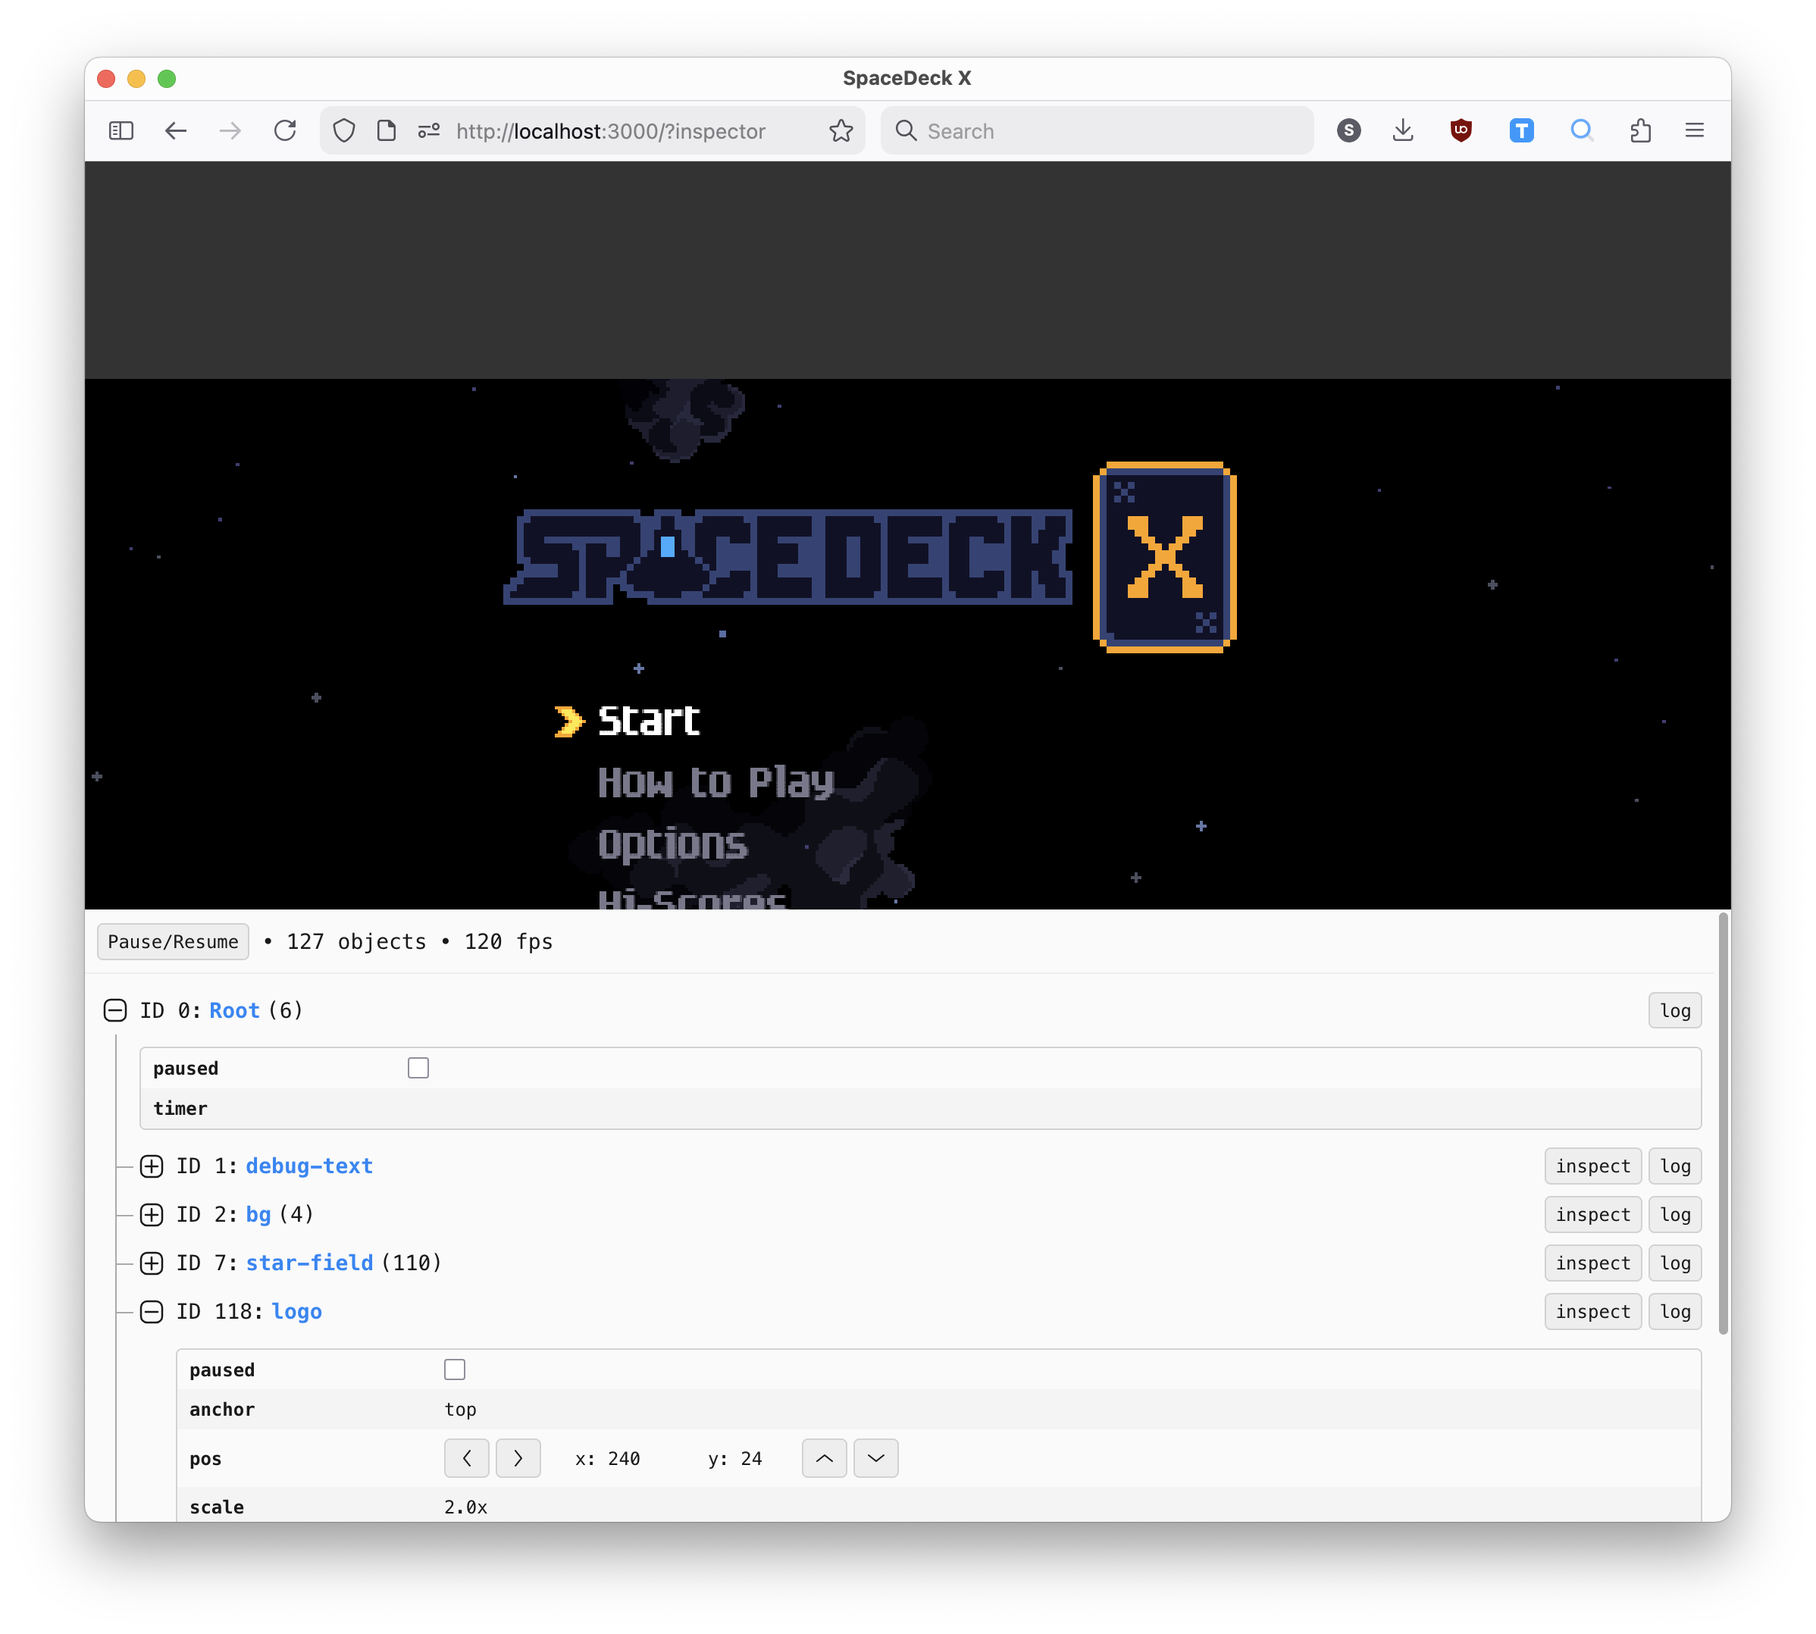
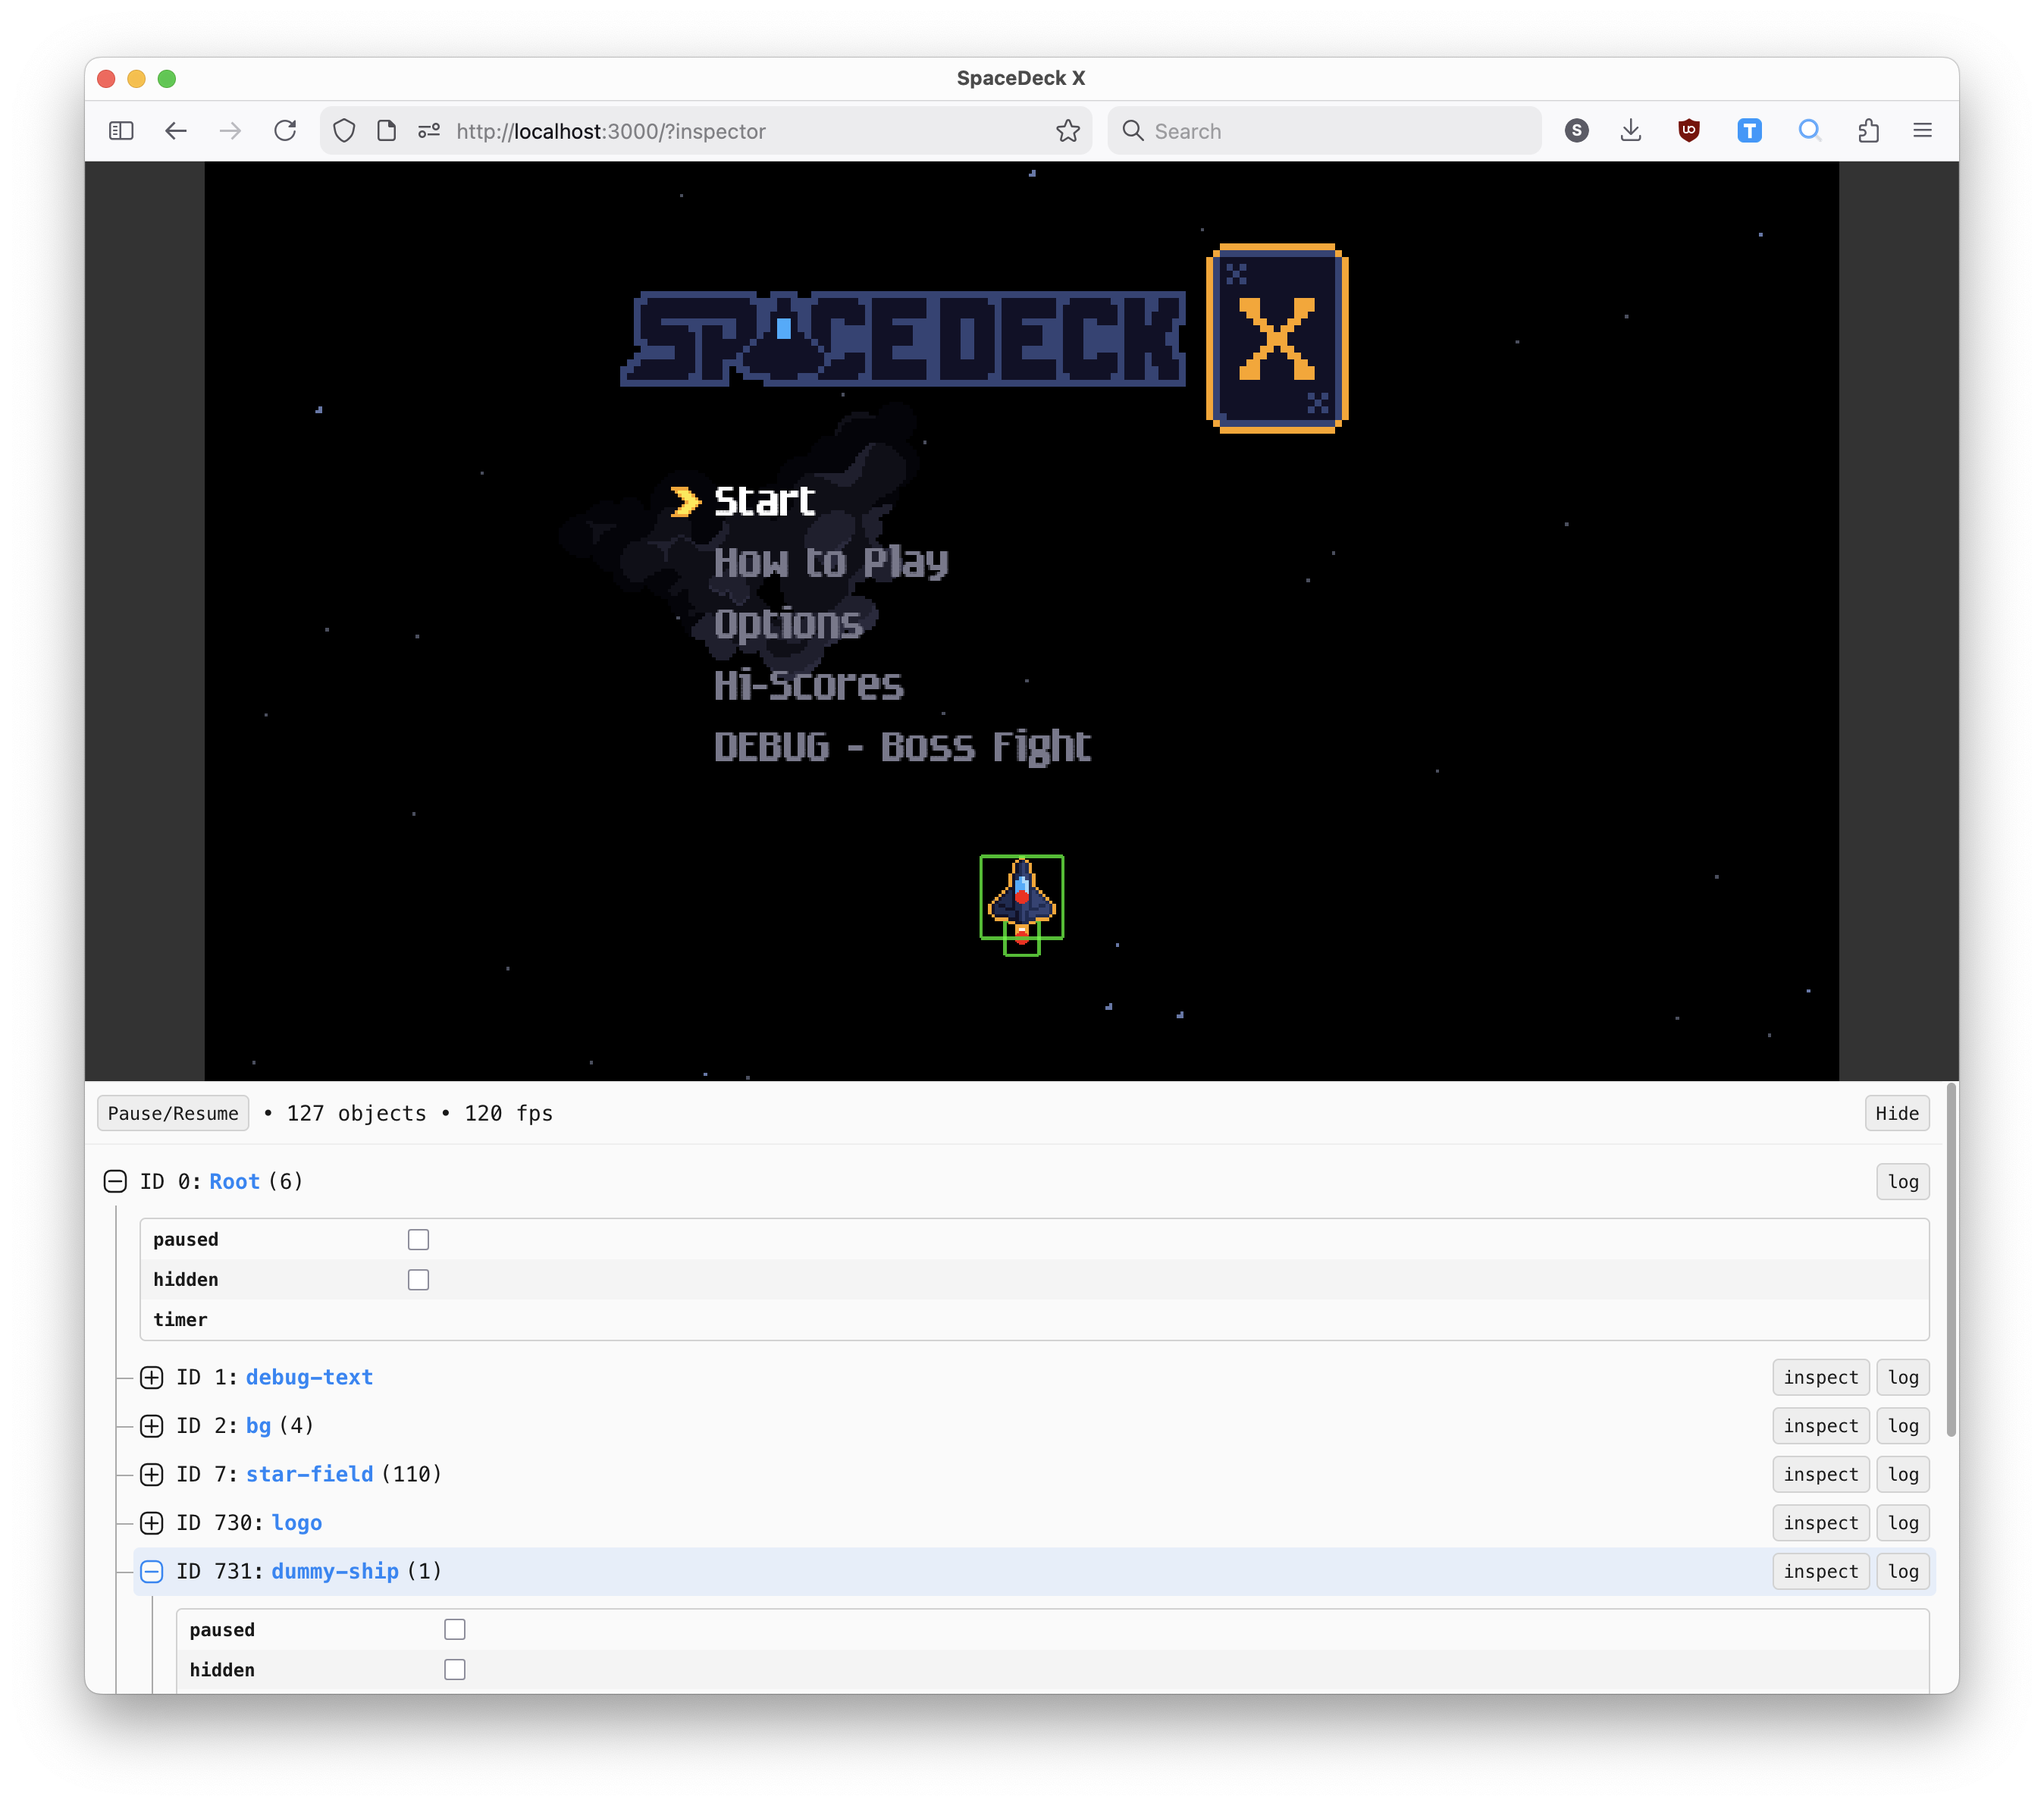
Recursive bounding box draw

Changed region(s): [[0.0309, 0.0311, 0.9574, 0.9634], [0.1853, 0.6837, 0.2162, 0.7147]]

diff --git a/src/components/game-object.tsx b/src/components/game-object.tsx
@@ -1,5 +1,5 @@
-import type { GameObj, KAPLAYCtx, KAPLAYCtxT, KEventController } from "kaplay";
-import { useEffect, useRef, useState } from "preact/hooks";
+import type { GameObj, KAPLAYCtx, KEventController } from "kaplay";
+import { useCallback, useEffect, useRef, useState } from "preact/hooks";
 import { MinusIcon, PlusIcon } from "../components/icons";
 import { cx } from "../lib/cx";
 import { drawBoundingBox } from "../lib/draw-bbox";
@@ -12,7 +12,7 @@ export interface GameObjectProps {
   setRenderRoot: (obj: GameObj) => void;
   isExpanded?: boolean;
   isRenderRoot?: boolean;
-  k: KAPLAYCtx | KAPLAYCtxT;
+  k: KAPLAYCtx;
 }
 
 export const GameObject = ({
@@ -24,7 +24,7 @@ export const GameObject = ({
   k,
 }: GameObjectProps) => {
   const [isExpanded, setIsExpanded] = useState(isExpandedExternal);
-  const mouseHoverController = useRef<KEventController>(null);
+  const updateControllers = useRef<KEventController[]>([]);
 
   const { compsData, tags, compsLabel } = getObjectInfo(obj);
   const isRootObject = obj.id === 0;
@@ -34,9 +34,32 @@ export const GameObject = ({
 
   const isInspecting = isRenderRoot && obj.id !== 0;
 
+  const cancelUpdateControllers = useCallback(() => {
+    updateControllers.current.forEach((controller) => controller.cancel());
+    updateControllers.current = [];
+  }, []);
+
+  const drawInspect = useCallback((obj: GameObj, isChild: boolean = false) => {
+    if (!obj.hidden) {
+      const updateController = obj.onDraw(() => {
+        // Kaplay calls drawInspect on all of the children, no need to call it again
+        if (!isChild) {
+          obj.drawInspect();
+        }
+        drawBoundingBox(obj, k);
+      });
+
+      updateControllers.current.push(updateController);
+
+      obj.children.forEach((child) => {
+        drawInspect(child, true);
+      });
+    }
+  }, []);
+
   useEffect(() => {
     return () => {
-      mouseHoverController.current?.cancel();
+      cancelUpdateControllers();
     };
   }, []);
 
@@ -45,24 +68,12 @@ export const GameObject = ({
   };
 
   const handleMouseEnter = () => {
-    mouseHoverController.current?.cancel();
-
-    if (!obj.hidden) {
-      mouseHoverController.current = obj.onDraw(() => {
-        obj.drawInspect();
-        drawBoundingBox(obj, k);
-      });
-      // obj.children.forEach((child) => {
-      //   child.onDraw(() => {
-      //     child.drawInspect();
-      //     drawBoundingBox(child, k);
-      //   });
-      // });
-    }
+    cancelUpdateControllers();
+    drawInspect(obj);
   };
 
   const handleMouseLeave = () => {
-    mouseHoverController.current?.cancel();
+    cancelUpdateControllers();
   };
 
   return (

diff --git a/src/lib/draw-bbox.ts b/src/lib/draw-bbox.ts
@@ -1,6 +1,6 @@
-import type { GameObj, KAPLAYCtx, KAPLAYCtxT, Rect } from "kaplay";
+import type { GameObj, KAPLAYCtx, Rect } from "kaplay";
 
-export const drawBoundingBox = (obj: GameObj, k: KAPLAYCtx | KAPLAYCtxT) => {
+export const drawBoundingBox = (obj: GameObj, k: KAPLAYCtx) => {
   // TODO handle a case when anchor is a vec2
   const anchor = obj.anchor || "topleft";
 
@@ -35,8 +35,5 @@ export const drawBoundingBox = (obj: GameObj, k: KAPLAYCtx | KAPLAYCtxT) => {
         opacity: 0.75,
       },
     });
-
-    // TODO figure out why these positions are wrong
-    // obj.children.forEach((child) => drawBoundingBox(child, k));
   }
 };

diff --git a/src/init.tsx b/src/init.tsx
@@ -1,4 +1,4 @@
-import type { KAPLAYCtx, KAPLAYCtxT } from "kaplay";
+import type { KAPLAYCtx } from "kaplay";
 import { render } from "preact";
 import { Inspector } from "./components/inspector";
 
@@ -7,10 +7,7 @@ export interface InspectorOptions {
   isVisibleOnLoad?: boolean;
   className?: string;
 }
-export default function init(
-  k: KAPLAYCtx | KAPLAYCtxT,
-  props: InspectorOptions = {},
-) {
+export default function init(k: KAPLAYCtx, props: InspectorOptions = {}) {
   const {
     //
     className = "",

diff --git a/src/components/inspector.tsx b/src/components/inspector.tsx
@@ -1,10 +1,10 @@
-import type { KAPLAYCtx, KAPLAYCtxT } from "kaplay";
+import type { KAPLAYCtx } from "kaplay";
 import { useEffect, useState } from "preact/hooks";
 import type { InspectorOptions } from "../init";
 import { GameObject } from "./game-object";
 
 export interface InspectorProps extends InspectorOptions {
-  k: KAPLAYCtx | KAPLAYCtxT;
+  k: KAPLAYCtx;
 }
 
 export const Inspector = ({

diff --git a/README.md b/README.md
@@ -74,6 +74,28 @@ interface InspectorOptions {
 
 By default, the inspector has `position: fixed` and it sits at the bottom of the screen. If you want to move it around, the easiest way it to pass a custom class name through the options and position it yourself.
 
+Here is an example of what I do:
+
+```css
+body:has(.k-inspector__hide) {
+  display: grid;
+  grid-template-rows: 60vh 40vh;
+
+  canvas {
+    width: 100% !important;
+    height: 60vh !important;
+    object-fit: contain;
+    display: block;
+  }
+
+  .k-inspector {
+    position: relative;
+  }
+}
+```
+
+When inspector is visible (I check if the hide button is shown), show the game in the top and the inspector on the bottom (like in the screenshot above).
+
 
 ## TODO
 
@@ -81,5 +103,4 @@ By default, the inspector has `position: fixed` and it sits at the bottom of the
 * [ ] Controllable theme - system/light/dark. At the moment it is always matching the system.
 * [ ] Filter/search
 * [ ] Persist search in URL or local storage
-* [ ] Figure out why child bounding box are drawn in the wrong position
 * [ ] Collapse/Expand all button
